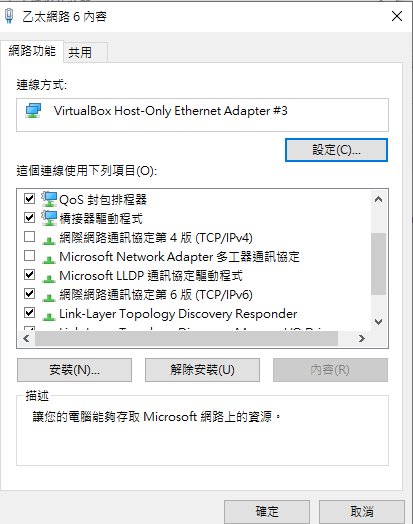
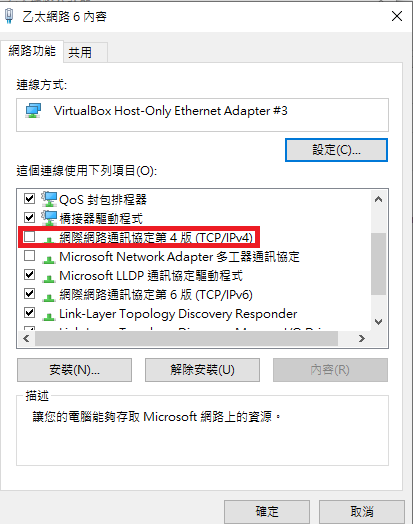
Internet

Changed region(s): [[0.0291, 0.4275, 0.6392, 0.4885]]

diff --git a/content/tipuesearch_content.js b/content/tipuesearch_content.js
@@ -1,1 +1,1 @@
-var tipuesearch = {"pages": [{'title': 'About', 'text': '本學期的電腦輔助設計實習, 要求每一位學員根據本 HW template 的格式建立個人的作業倉儲與網頁. \n \n 你的學號 \n 網站倉儲:  https://github.com/mdecourse/cad2021_hw \n 網站連結:  https://mde.tw/cad2021_hw \n 其他與作者或作業相關資料說明或介紹 \n', 'tags': '', 'url': 'About.html'}, {'title': '筆記', 'text': '', 'tags': '', 'url': '筆記.html'}, {'title': '9444', 'text': '先打指令\xa0 cd tmp \n 再打 \xa0 cd cad2021_hw \n 然後打 \xa0 cms \xa0 \n 就會得到網址  https://127.0.0.1:9444/ \xa0複製下來 \n \n 按\xa0 login\xa0 登入(密碼\xa0 admin \xa0) \n', 'tags': '', 'url': '9444.html'}, {'title': '網際網路', 'text': '學校網路使用ivp6，所以要把ivp4關掉 \n 設定網路伺服器網址 \n 2001:288:6004:17::42 \n', 'tags': '', 'url': '網際網路.html'}, {'title': 'HW1', 'text': 'HW1 佔學期成績 25% \n HW1 必須在 2021.11.10 22:00 之前完成. \n HW1 具體項目成果回報區 將於 2021.09.23 開啟, 於  2021.11.10 22:00 關閉. \n 作業一: meArm Robot 零件繪圖與機電運動模擬場景製作 \n Step1 : 下載  meARM.7z  這個包含尚未完成組立的 meArm Robot 場景與雷射切割零件組立手冊. \n meArm_75-0040_v1.pdf  則是另外一本組立參考手冊. \n Step2 : 從課程網頁中的  Compile CoppeliaSim 頁面 , 下載  coppeliaSim 4.1.0 官方版與 MSYS2 編譯版.7z  (檔案大小 412 MB, 解開壓縮後 1GB) 可攜套件. \n Step3 : 在 HW1 中, 要求每一位學員透過程式亂數分配 (兩班實際亂數分配結果以上課時點擊下列按鈕所得結果為準) 所使用的兩套參數式 CAD 套件, 從軟體發展緣起開始進行介紹,\xa0 經過教育版軟體套件檔案的取得, 下載安裝以及配置使用. 根據 Step1 中的零件尺寸, 逐一完成 meArm Robot 各零件繪製與組立. 並將零件 匯入  CoppeliaSim 進行組裝配置後, 以  UI 介面 中的 slider 控制 meArm Robot 各軸的旋轉作動. \n 2b CAD 套件分配結果:  https://mde.tw/cad2021/downloads/online/2b_hw1_cad.txt \n 附件: \n 1. CAD 套件分配表: \n sw: Solidworks, inv: Inventor, nx: NX12, ons: Onshape, slvs: Solvespace \n 2a 套件亂數分配結果 \n 2b 套件亂數分配結果 \n 2. 在兩套 CAD 完成零件繪圖並轉入 CoppeliaSim 後, 為了建立 Dynamic Model 必須利用  shape edit modes  轉為  clean model , 並與實際轉入的 STL 格式零件外形結合應用後建立模擬場景 (scenes). \n 3. meARM Robot  動態模擬場景 的建構, 可參考  0 ,  1 ,  2 ,  3 ,  4 ,  5 ,  6 ,  7 , 也可參考  Uarm Robot model  與相關 影片 . \n 4. CoppeliaSim design dynamic simulations  說明頁面 . \n 5.  網際 Lua  程式執行. \n 6.  meArm.slvs ,  meArm_in_solvespace.slvs \n 7. UI 介面程式參考: \n function closeEventHandler(h)\n    sim.addLog(sim.verbosity_scriptinfos,\'Window \'..h..\' is closing...\')\n    simUI.hide(h)\nend\n\nfunction joint1_rotate(ui,id,newVal)\n    simUI.setLabelText(ui,3000,\'theta1 set to \'..newVal)\n    sim.setJointTargetPosition(joint1, newVal*deg)\nend\n\nfunction joint2_rotate(ui,id,newVal)\n    simUI.setLabelText(ui,3000,\'theta2 set to \'..newVal)\n    sim.setJointTargetPosition(joint2, newVal*deg)\nend\n\nfunction joint3_rotate(ui,id,newVal)\n    simUI.setLabelText(ui,3000,\'theta3 set to \'..newVal)\n    sim.setJointTargetPosition(joint3, newVal*deg)\nend\n\nfunction joint16_rotate(ui,id,newVal)\n    simUI.setLabelText(ui,3000,\'theta16 set to \'..newVal)\n    sim.setJointTargetPosition(joint16, newVal*deg)\n    sim.setJointTargetPosition(joint20, -newVal*deg)\nend\n\nfunction sysCall_init()\n    -- do some initialization here\n    joint1 = sim.getObjectHandle(\'motor1\')\n    joint2 = sim.getObjectHandle(\'motor2\')\n    joint3 = sim.getObjectHandle(\'motor3\')\n    joint16 = sim.getObjectHandle(\'motor16\')\n    joint20 = sim.getObjectHandle(\'motor20\')\n    i = 0\n    deg = math.pi/180\n    print(i)\n    xml = [[\n<ui closeable="true" on-close="closeEventHandler" resizable="true">\n    <label text="This is a demo of the CustomUI plugin. Browse through the tabs below to explore all the widgets that can be created with the plugin." wordwrap="true" />\n    <tabs>\n        <tab title="Numeric">a\n            <label text="Sliders can be oriented horizontally or vertically, and have optional properties that can be set (in the XML) such as minimum and maximum value." wordwrap="true" />\n            <label text="" id="3000" wordwrap="true" />\n            <label text="theta1" /> <hslider tick-position="above" tick-interval="1" \n            minimum="0" maximum="360" on-change="joint1_rotate" />\n            <label text="theta2" /> <hslider tick-position="above" tick-interval="1" \n            minimum="-90" maximum="65" on-change="joint2_rotate" />\n            <label text="theta3" /> <hslider tick-position="above" tick-interval="1" \n            minimum="-90" maximum="185" on-change="joint3_rotate" />\n            <label text="theta16" /> <hslider tick-position="above" tick-interval="1" \n            minimum="0" maximum="15" on-change="joint16_rotate" />\n        </tab>\n    </tabs>\n</ui>\n]]\n    ui=simUI.create(xml)\n    \nend \n \n (From:  2016_ADDITIVE MANUFACTURING PROCESSES FOR FABRICATING A MINI ROBOT - COMPUTATIONAL MODELS AND EXPERIMENTAL RESULTS.pdf ) \n \n', 'tags': '', 'url': 'HW1.html'}, {'title': 'CAD1 繪圖', 'text': 'CAD1 指各學員所分配到的第一套參數式 CAD 套件, 其中包括 Solidworks, Inventor, NX, Onshape 與 Solvespace. \n CAD1 緣起說明與介紹 \n 請不要直接從找到的 CAD1 套件說明複製貼上, 而是應該要看完各種參考資料後, 重新打字彙整. \n', 'tags': '', 'url': 'CAD1 繪圖.html'}, {'title': 'CAD1 安裝配置', 'text': 'CAD1 指各學員所分配到的第一套參數式 CAD 套件, 其中包括 Solidworks, Inventor, NX, Onshape 與 Solvespace. \n CAD1 套件下載安裝與配置 \n CAD1 下載安裝與配置流程 embedded 影片: 標題必須為「 NFU - MDE - cad2021 - 學號 - SW2020 下載安裝與配置 」且加上 語音說明 與 字幕. \n 若使用 Solidworks 2017 版, 則將 SW2020 換為 SW2017, 其他套件 INV2020 代表 AutoDesk Inventor 2020 版, 還有 Onshape 與 Solvespace 等套件名稱. \n 由於安裝配置 Solidworks 時必須使用 nfu 的 vpn, 因此各學員必須按照 說明 , 完成本學期的 vpn 使用申請. \n Solidworks 分別提供 2017 與 2020 版本: \n SW2017 Professional 安裝光碟下載  (必須先登入 @gm 帳號後才能下載) \n SW2020 Professional 安裝光碟下載  (必須先登入 @gm 帳號後才能下載) \n NX12 版本: \n NX12 安裝光碟下載  (必須先登入 @gm 帳號後才能下載) \n NX12 可攜版本下載 \xa0(必須先登入 @gm 帳號後才能下載) \n Inventor: \n 請在校園網路, 使用 nfu vpn 或設定系上代理主機, 就可以從  https://2019wcm.blogspot.com/2019/07/autodesk-inventor-professional.html  嘗試下載 autodesk.iso 後安裝 Inventor Professional 版本. \n Onshape: \n 至  https://www.onshape.com/en/  申請帳號後使用. \n Solvespace: \n 至  https://solvespace.com  下載或從  https://github.com/solvespace/solvespace  下載原始碼, 以可攜程式系統自行編譯後使用. \n', 'tags': '', 'url': 'CAD1 安裝配置.html'}, {'title': 'CAD1 操作流程', 'text': 'CAD1 指各學員所分配到的第一套參數式 CAD 套件, 其中包括 Solidworks, Inventor, NX, Onshape 與 Solvespace. \n CAD1 零組件繪圖操作流程影片 (Youtube) \n CAD1 零組件繪圖教學影片 (Wink) \n CAD1 零組件繪圖教學影片 embedded 影片: 標題必須為「 NFU - MDE - cad2021 - 學號 - SW2020  零組件繪圖教學影片」且加上 語音說明 與 字幕. \n 若使用 Solidworks 2017 版, 則將 SW2020 換為 SW2017, 其他套件 INV2020 代表 AutoDesk Inventor 2020 版, 還有 Onshape 與 Solvespace 等套件名稱. \n', 'tags': '', 'url': 'CAD1 操作流程.html'}, {'title': 'CAD2 繪圖', 'text': 'CAD2 指各學員所分配到的第二套參數式 CAD 套件, 其中包括 Solidworks, Inventor, NX, Onshape 與 Solvespace. \n CAD2 緣起說明與介紹 \n 請不要直接從找到的 CAD2 套件說明複製貼上, 而是應該要看完各種參考資料後, 重新打字彙整. \n', 'tags': '', 'url': 'CAD2 繪圖.html'}, {'title': 'CAD2 安裝配置', 'text': 'CAD2 指各學員所分配到的第二套參數式 CAD 套件, 其中包括 Solidworks, Inventor, NX, Onshape 與 Solvespace. \n CAD2 套件下載安裝與配置 \n CAD2 套件下載安裝與配置影片 embedded 影片: 標題必須為「 NFU - MDE - cad2021 - 學號 - SW2020  套件下載安裝與配置影片」且加上 語音說明 與 字幕. \n 若使用 Solidworks 2017 版, 則將 SW2020 換為 SW2017, 其他套件 INV2020 代表 AutoDesk Inventor 2020 版, 還有 Onshape 與 Solvespace 等套件名稱. \n', 'tags': '', 'url': 'CAD2 安裝配置.html'}, {'title': 'CAD2 操作流程', 'text': 'CAD2 指各學員所分配到的第二套參數式 CAD 套件, 其中包括 Solidworks, Inventor, NX, Onshape 與 Solvespace. \n CAD2 零組件繪圖操作流程影片 (Youtube) \n CAD2 零組件繪圖教學影片 (Wink) \n CAD2 零組件繪圖教學影片 embedded 影片: 標題必須為「 NFU - MDE - cad2021 - 學號 - SW2020  零組件繪圖教學影片」且加上 語音說明 與 字幕. \n 若使用 Solidworks 2017 版, 則將 SW2020 換為 SW2017, 其他套件 INV2020 代表 AutoDesk Inventor 2020 版, 還有 Onshape 與 Solvespace 等套件名稱. \n', 'tags': '', 'url': 'CAD2 操作流程.html'}, {'title': '運動場景', 'text': 'CAD1: \n CAD1 零件轉出後轉入 CoppeliaSim 操作影片 (Youtube) \n CAD1 零件轉入 CoppeliaSim 教學影片 (Wink) \n CAD1 轉入 Coppeliasim 教學影片 embedded 影片: 標題必須為「 NFU - MDE - cad2021 - 學號 - SW2020  零件轉入 CoppeliaSim 教學影片」且加上 語音說明 與 字幕. \n CAD2: \n CAD2 零件轉出後轉入 CoppeliaSim 操作影片 (Youtube) \n CAD2 零件轉入 CoppeliaSim 教學影片 (Wink) \n CAD2 轉入 Coppeliasim 教學影片 embedded 影片: 標題必須為「 NFU - MDE - cad2021 - 學號 - SW2020  零件轉入 CoppeliaSim 教學影片」且加上 語音說明 與 字幕. \n 若使用 Solidworks 2017 版, 則將 SW2020 換為 SW2017, 其他套件 INV2020 代表 AutoDesk Inventor 2020 版, 還有 Onshape 與 Solvespace 等套件名稱. \n', 'tags': '', 'url': '運動場景.html'}, {'title': 'HW1-1', 'text': 'HW1-1 佔學期成績 15% \n HW1-1 必須在 2021.12.01 22:00 之前完成. \n HW1-1 具體項目成果回報區 將於 2021.11.18 開啟, 於  2021.12.01 22:00 關閉. \n 作業 1-1: Mirobot 機械手臂場景組合 \n 說明: meArm Robot 有四個自由度, 請根據 HW1 的零組件繪製組立與 CoppeliaSim 運動場景模擬, 延伸至  Task1-1  中六個自由度的 Mirobot 機械手臂. \n mirobot_part1_to_part5.7z  為取自 \xa0 https://github.com/wlkata/Mirobot-STL  的參考零件. 請利用場景中 Mirobot STL 零件, 組合為可以透過  UI 介面 中的 slider 控制各軸作動旋轉的運動模型. \n 請根據  Task1-1  中的說明, 完成各項指定任務. \n', 'tags': '', 'url': 'HW1-1.html'}, {'title': 'HW2', 'text': 'HW2 佔學期成績 20% \n HW2 必須在 2021.12.22 22:00 之前完成. \n HW2 具體項目成果回報區 將於 2021.12.09 開啟, 於  2021.12.22 22:00 關閉. \n meArm 逆向運動學與網際參數式 CAD API 結合應用. \n 請將  https://github.com/mdecourse/meArm  中的 meArm Robot 逆向運動學程式, 改為 Lua 與 Python 程式, 使能套用至 HW1 所完成的 CoppeliaSim meArm 運動模擬場景. 並分別採 Lua, Legacy remote API 及 Bluezero remote API 逆向運動的方式進行控制. \n 請利用  Task2  中的 Solidworks, Inventor 與 NX API 程式控制 meArm Robot 零組件尺寸, 說明並討論如何透過網際程式控制 meArm Robot 的零件尺寸, 並結合上述逆向運動學程式庫, 使得自動化機電產品開發流程更容易滿足客製化需求. \n 參考: \n 2016_ADDITIVE MANUFACTURING PROCESSES FOR FABRICATING A MINI ROBOT - COMPUTATIONAL MODELS AND EXPERIMENTAL RESULTS.pdf \n Robot Manipulator Control with Inverse Kinematics PD-Pseudoinverse Jacobian and Forward Kinematics Denavit Hartenber.pdf \n KINEMATIC ANALYSIS FOR ROBOT ARM.pdf \n https://codebender.cc/user/MeArm \n https://github.com/mdecourse/meArmPi \n /downloads/MeArmPiTechnicalOverviewV0-3DRAFT.pdf \n https://github.com/mdecourse/me-arm-ik \n https://github.com/mdecourse/mearm_model \n https://courses.ece.cornell.edu/ece5990/ECE5725_Fall2016_Projects/pas324_ml634/index.html \n https://github.com/mdecourse/InefficientSkittleSorter \n https://mearm.com \n', 'tags': '', 'url': 'HW2.html'}, {'title': 'HW3', 'text': 'HW3 為選項作業. \n HW3 具體項目成果回報區 將於 2021.12.09 開啟, 於  2022.01.05 22:00 關閉 \n https://mde.tw/cad2021/content/Task3.html \xa0 \n https://mde.tw/cad2021/content/Task4.html \n https://mde.tw/cad2021/content/Task5.html \n https://mde.tw/cad2021/content/Task6.html \n https://mde.tw/cad2021/content/Task7.html \n 請從上列 Tasks 中自行選擇項目內容完成 HW3. \n', 'tags': '', 'url': 'HW3.html'}, {'title': 'Final Project', 'text': 'Final Project 佔學期成績 40% \n 2a 與 2b 必須在 2022.01.06 上課之前完成 Final Project \n Final Project 具體項目成果回報區 將於 2021.12.09 開啟, 於  2022.01.05 22:00 關閉 \n 彈性製造系統場景設計與製作 \n 請從  https://github.com/mdecourse/scenes  與  https://github.com/mdecourse/models  中選擇場景或模型, 配合  cad2021_textbook.pdf  (登入 @gm 帳號後下載) 教材中的內容, 自選製作與組立產品, 組合成一個 Flexible Manufacturing System 系統場景. \n 彈性製造系統內容說明 \n 範例: \n \n', 'tags': '', 'url': 'Final Project.html'}]};
+var tipuesearch = {"pages": [{'title': 'About', 'text': '本學期的電腦輔助設計實習, 要求每一位學員根據本 HW template 的格式建立個人的作業倉儲與網頁. \n \n 你的學號 \n 網站倉儲:  https://github.com/mdecourse/cad2021_hw \n 網站連結:  https://mde.tw/cad2021_hw \n 其他與作者或作業相關資料說明或介紹 \n', 'tags': '', 'url': 'About.html'}, {'title': '筆記', 'text': '', 'tags': '', 'url': '筆記.html'}, {'title': '9444', 'text': '先打指令\xa0 cd tmp \n 再打 \xa0 cd cad2021_hw \n 然後打 \xa0 cms \xa0 \n 就會得到網址  https://127.0.0.1:9444/ \xa0複製下來 \n \n 按\xa0 login\xa0 登入(密碼\xa0 admin \xa0) \n', 'tags': '', 'url': '9444.html'}, {'title': '網際網路', 'text': '學校網路使用 ivp6 ，所以要把 ivp4 關掉 \n \n 設定DNS伺服器位址\xa0 2001:b000:168::1 \n \n 在小黑窗打上  ipconfig /all ，確認網路位址 \n \n \n 設定 HTTY Proxy \xa0 2001:288:6004:17::42 \n \n 設定完成後，就可以上網了123 \n \n', 'tags': '', 'url': '網際網路.html'}, {'title': 'HW1', 'text': 'HW1 佔學期成績 25% \n HW1 必須在 2021.11.10 22:00 之前完成. \n HW1 具體項目成果回報區 將於 2021.09.23 開啟, 於  2021.11.10 22:00 關閉. \n 作業一: meArm Robot 零件繪圖與機電運動模擬場景製作 \n Step1 : 下載  meARM.7z  這個包含尚未完成組立的 meArm Robot 場景與雷射切割零件組立手冊. \n meArm_75-0040_v1.pdf  則是另外一本組立參考手冊. \n Step2 : 從課程網頁中的  Compile CoppeliaSim 頁面 , 下載  coppeliaSim 4.1.0 官方版與 MSYS2 編譯版.7z  (檔案大小 412 MB, 解開壓縮後 1GB) 可攜套件. \n Step3 : 在 HW1 中, 要求每一位學員透過程式亂數分配 (兩班實際亂數分配結果以上課時點擊下列按鈕所得結果為準) 所使用的兩套參數式 CAD 套件, 從軟體發展緣起開始進行介紹,\xa0 經過教育版軟體套件檔案的取得, 下載安裝以及配置使用. 根據 Step1 中的零件尺寸, 逐一完成 meArm Robot 各零件繪製與組立. 並將零件 匯入  CoppeliaSim 進行組裝配置後, 以  UI 介面 中的 slider 控制 meArm Robot 各軸的旋轉作動. \n 2b CAD 套件分配結果:  https://mde.tw/cad2021/downloads/online/2b_hw1_cad.txt \n 附件: \n 1. CAD 套件分配表: \n sw: Solidworks, inv: Inventor, nx: NX12, ons: Onshape, slvs: Solvespace \n 2a 套件亂數分配結果 \n 2b 套件亂數分配結果 \n 2. 在兩套 CAD 完成零件繪圖並轉入 CoppeliaSim 後, 為了建立 Dynamic Model 必須利用  shape edit modes  轉為  clean model , 並與實際轉入的 STL 格式零件外形結合應用後建立模擬場景 (scenes). \n 3. meARM Robot  動態模擬場景 的建構, 可參考  0 ,  1 ,  2 ,  3 ,  4 ,  5 ,  6 ,  7 , 也可參考  Uarm Robot model  與相關 影片 . \n 4. CoppeliaSim design dynamic simulations  說明頁面 . \n 5.  網際 Lua  程式執行. \n 6.  meArm.slvs ,  meArm_in_solvespace.slvs \n 7. UI 介面程式參考: \n function closeEventHandler(h)\n    sim.addLog(sim.verbosity_scriptinfos,\'Window \'..h..\' is closing...\')\n    simUI.hide(h)\nend\n\nfunction joint1_rotate(ui,id,newVal)\n    simUI.setLabelText(ui,3000,\'theta1 set to \'..newVal)\n    sim.setJointTargetPosition(joint1, newVal*deg)\nend\n\nfunction joint2_rotate(ui,id,newVal)\n    simUI.setLabelText(ui,3000,\'theta2 set to \'..newVal)\n    sim.setJointTargetPosition(joint2, newVal*deg)\nend\n\nfunction joint3_rotate(ui,id,newVal)\n    simUI.setLabelText(ui,3000,\'theta3 set to \'..newVal)\n    sim.setJointTargetPosition(joint3, newVal*deg)\nend\n\nfunction joint16_rotate(ui,id,newVal)\n    simUI.setLabelText(ui,3000,\'theta16 set to \'..newVal)\n    sim.setJointTargetPosition(joint16, newVal*deg)\n    sim.setJointTargetPosition(joint20, -newVal*deg)\nend\n\nfunction sysCall_init()\n    -- do some initialization here\n    joint1 = sim.getObjectHandle(\'motor1\')\n    joint2 = sim.getObjectHandle(\'motor2\')\n    joint3 = sim.getObjectHandle(\'motor3\')\n    joint16 = sim.getObjectHandle(\'motor16\')\n    joint20 = sim.getObjectHandle(\'motor20\')\n    i = 0\n    deg = math.pi/180\n    print(i)\n    xml = [[\n<ui closeable="true" on-close="closeEventHandler" resizable="true">\n    <label text="This is a demo of the CustomUI plugin. Browse through the tabs below to explore all the widgets that can be created with the plugin." wordwrap="true" />\n    <tabs>\n        <tab title="Numeric">a\n            <label text="Sliders can be oriented horizontally or vertically, and have optional properties that can be set (in the XML) such as minimum and maximum value." wordwrap="true" />\n            <label text="" id="3000" wordwrap="true" />\n            <label text="theta1" /> <hslider tick-position="above" tick-interval="1" \n            minimum="0" maximum="360" on-change="joint1_rotate" />\n            <label text="theta2" /> <hslider tick-position="above" tick-interval="1" \n            minimum="-90" maximum="65" on-change="joint2_rotate" />\n            <label text="theta3" /> <hslider tick-position="above" tick-interval="1" \n            minimum="-90" maximum="185" on-change="joint3_rotate" />\n            <label text="theta16" /> <hslider tick-position="above" tick-interval="1" \n            minimum="0" maximum="15" on-change="joint16_rotate" />\n        </tab>\n    </tabs>\n</ui>\n]]\n    ui=simUI.create(xml)\n    \nend \n \n (From:  2016_ADDITIVE MANUFACTURING PROCESSES FOR FABRICATING A MINI ROBOT - COMPUTATIONAL MODELS AND EXPERIMENTAL RESULTS.pdf ) \n \n', 'tags': '', 'url': 'HW1.html'}, {'title': 'CAD1 繪圖', 'text': 'CAD1 指各學員所分配到的第一套參數式 CAD 套件, 其中包括 Solidworks, Inventor, NX, Onshape 與 Solvespace. \n CAD1 緣起說明與介紹 \n 請不要直接從找到的 CAD1 套件說明複製貼上, 而是應該要看完各種參考資料後, 重新打字彙整. \n', 'tags': '', 'url': 'CAD1 繪圖.html'}, {'title': 'CAD1 安裝配置', 'text': 'CAD1 指各學員所分配到的第一套參數式 CAD 套件, 其中包括 Solidworks, Inventor, NX, Onshape 與 Solvespace. \n CAD1 套件下載安裝與配置 \n CAD1 下載安裝與配置流程 embedded 影片: 標題必須為「 NFU - MDE - cad2021 - 學號 - SW2020 下載安裝與配置 」且加上 語音說明 與 字幕. \n 若使用 Solidworks 2017 版, 則將 SW2020 換為 SW2017, 其他套件 INV2020 代表 AutoDesk Inventor 2020 版, 還有 Onshape 與 Solvespace 等套件名稱. \n 由於安裝配置 Solidworks 時必須使用 nfu 的 vpn, 因此各學員必須按照 說明 , 完成本學期的 vpn 使用申請. \n Solidworks 分別提供 2017 與 2020 版本: \n SW2017 Professional 安裝光碟下載  (必須先登入 @gm 帳號後才能下載) \n SW2020 Professional 安裝光碟下載  (必須先登入 @gm 帳號後才能下載) \n NX12 版本: \n NX12 安裝光碟下載  (必須先登入 @gm 帳號後才能下載) \n NX12 可攜版本下載 \xa0(必須先登入 @gm 帳號後才能下載) \n Inventor: \n 請在校園網路, 使用 nfu vpn 或設定系上代理主機, 就可以從  https://2019wcm.blogspot.com/2019/07/autodesk-inventor-professional.html  嘗試下載 autodesk.iso 後安裝 Inventor Professional 版本. \n Onshape: \n 至  https://www.onshape.com/en/  申請帳號後使用. \n Solvespace: \n 至  https://solvespace.com  下載或從  https://github.com/solvespace/solvespace  下載原始碼, 以可攜程式系統自行編譯後使用. \n', 'tags': '', 'url': 'CAD1 安裝配置.html'}, {'title': 'CAD1 操作流程', 'text': 'CAD1 指各學員所分配到的第一套參數式 CAD 套件, 其中包括 Solidworks, Inventor, NX, Onshape 與 Solvespace. \n CAD1 零組件繪圖操作流程影片 (Youtube) \n CAD1 零組件繪圖教學影片 (Wink) \n CAD1 零組件繪圖教學影片 embedded 影片: 標題必須為「 NFU - MDE - cad2021 - 學號 - SW2020  零組件繪圖教學影片」且加上 語音說明 與 字幕. \n 若使用 Solidworks 2017 版, 則將 SW2020 換為 SW2017, 其他套件 INV2020 代表 AutoDesk Inventor 2020 版, 還有 Onshape 與 Solvespace 等套件名稱. \n', 'tags': '', 'url': 'CAD1 操作流程.html'}, {'title': 'CAD2 繪圖', 'text': 'CAD2 指各學員所分配到的第二套參數式 CAD 套件, 其中包括 Solidworks, Inventor, NX, Onshape 與 Solvespace. \n CAD2 緣起說明與介紹 \n 請不要直接從找到的 CAD2 套件說明複製貼上, 而是應該要看完各種參考資料後, 重新打字彙整. \n', 'tags': '', 'url': 'CAD2 繪圖.html'}, {'title': 'CAD2 安裝配置', 'text': 'CAD2 指各學員所分配到的第二套參數式 CAD 套件, 其中包括 Solidworks, Inventor, NX, Onshape 與 Solvespace. \n CAD2 套件下載安裝與配置 \n CAD2 套件下載安裝與配置影片 embedded 影片: 標題必須為「 NFU - MDE - cad2021 - 學號 - SW2020  套件下載安裝與配置影片」且加上 語音說明 與 字幕. \n 若使用 Solidworks 2017 版, 則將 SW2020 換為 SW2017, 其他套件 INV2020 代表 AutoDesk Inventor 2020 版, 還有 Onshape 與 Solvespace 等套件名稱. \n', 'tags': '', 'url': 'CAD2 安裝配置.html'}, {'title': 'CAD2 操作流程', 'text': 'CAD2 指各學員所分配到的第二套參數式 CAD 套件, 其中包括 Solidworks, Inventor, NX, Onshape 與 Solvespace. \n CAD2 零組件繪圖操作流程影片 (Youtube) \n CAD2 零組件繪圖教學影片 (Wink) \n CAD2 零組件繪圖教學影片 embedded 影片: 標題必須為「 NFU - MDE - cad2021 - 學號 - SW2020  零組件繪圖教學影片」且加上 語音說明 與 字幕. \n 若使用 Solidworks 2017 版, 則將 SW2020 換為 SW2017, 其他套件 INV2020 代表 AutoDesk Inventor 2020 版, 還有 Onshape 與 Solvespace 等套件名稱. \n', 'tags': '', 'url': 'CAD2 操作流程.html'}, {'title': '運動場景', 'text': 'CAD1: \n CAD1 零件轉出後轉入 CoppeliaSim 操作影片 (Youtube) \n CAD1 零件轉入 CoppeliaSim 教學影片 (Wink) \n CAD1 轉入 Coppeliasim 教學影片 embedded 影片: 標題必須為「 NFU - MDE - cad2021 - 學號 - SW2020  零件轉入 CoppeliaSim 教學影片」且加上 語音說明 與 字幕. \n CAD2: \n CAD2 零件轉出後轉入 CoppeliaSim 操作影片 (Youtube) \n CAD2 零件轉入 CoppeliaSim 教學影片 (Wink) \n CAD2 轉入 Coppeliasim 教學影片 embedded 影片: 標題必須為「 NFU - MDE - cad2021 - 學號 - SW2020  零件轉入 CoppeliaSim 教學影片」且加上 語音說明 與 字幕. \n 若使用 Solidworks 2017 版, 則將 SW2020 換為 SW2017, 其他套件 INV2020 代表 AutoDesk Inventor 2020 版, 還有 Onshape 與 Solvespace 等套件名稱. \n', 'tags': '', 'url': '運動場景.html'}, {'title': 'HW1-1', 'text': 'HW1-1 佔學期成績 15% \n HW1-1 必須在 2021.12.01 22:00 之前完成. \n HW1-1 具體項目成果回報區 將於 2021.11.18 開啟, 於  2021.12.01 22:00 關閉. \n 作業 1-1: Mirobot 機械手臂場景組合 \n 說明: meArm Robot 有四個自由度, 請根據 HW1 的零組件繪製組立與 CoppeliaSim 運動場景模擬, 延伸至  Task1-1  中六個自由度的 Mirobot 機械手臂. \n mirobot_part1_to_part5.7z  為取自 \xa0 https://github.com/wlkata/Mirobot-STL  的參考零件. 請利用場景中 Mirobot STL 零件, 組合為可以透過  UI 介面 中的 slider 控制各軸作動旋轉的運動模型. \n 請根據  Task1-1  中的說明, 完成各項指定任務. \n', 'tags': '', 'url': 'HW1-1.html'}, {'title': 'HW2', 'text': 'HW2 佔學期成績 20% \n HW2 必須在 2021.12.22 22:00 之前完成. \n HW2 具體項目成果回報區 將於 2021.12.09 開啟, 於  2021.12.22 22:00 關閉. \n meArm 逆向運動學與網際參數式 CAD API 結合應用. \n 請將  https://github.com/mdecourse/meArm  中的 meArm Robot 逆向運動學程式, 改為 Lua 與 Python 程式, 使能套用至 HW1 所完成的 CoppeliaSim meArm 運動模擬場景. 並分別採 Lua, Legacy remote API 及 Bluezero remote API 逆向運動的方式進行控制. \n 請利用  Task2  中的 Solidworks, Inventor 與 NX API 程式控制 meArm Robot 零組件尺寸, 說明並討論如何透過網際程式控制 meArm Robot 的零件尺寸, 並結合上述逆向運動學程式庫, 使得自動化機電產品開發流程更容易滿足客製化需求. \n 參考: \n 2016_ADDITIVE MANUFACTURING PROCESSES FOR FABRICATING A MINI ROBOT - COMPUTATIONAL MODELS AND EXPERIMENTAL RESULTS.pdf \n Robot Manipulator Control with Inverse Kinematics PD-Pseudoinverse Jacobian and Forward Kinematics Denavit Hartenber.pdf \n KINEMATIC ANALYSIS FOR ROBOT ARM.pdf \n https://codebender.cc/user/MeArm \n https://github.com/mdecourse/meArmPi \n /downloads/MeArmPiTechnicalOverviewV0-3DRAFT.pdf \n https://github.com/mdecourse/me-arm-ik \n https://github.com/mdecourse/mearm_model \n https://courses.ece.cornell.edu/ece5990/ECE5725_Fall2016_Projects/pas324_ml634/index.html \n https://github.com/mdecourse/InefficientSkittleSorter \n https://mearm.com \n', 'tags': '', 'url': 'HW2.html'}, {'title': 'HW3', 'text': 'HW3 為選項作業. \n HW3 具體項目成果回報區 將於 2021.12.09 開啟, 於  2022.01.05 22:00 關閉 \n https://mde.tw/cad2021/content/Task3.html \xa0 \n https://mde.tw/cad2021/content/Task4.html \n https://mde.tw/cad2021/content/Task5.html \n https://mde.tw/cad2021/content/Task6.html \n https://mde.tw/cad2021/content/Task7.html \n 請從上列 Tasks 中自行選擇項目內容完成 HW3. \n', 'tags': '', 'url': 'HW3.html'}, {'title': 'Final Project', 'text': 'Final Project 佔學期成績 40% \n 2a 與 2b 必須在 2022.01.06 上課之前完成 Final Project \n Final Project 具體項目成果回報區 將於 2021.12.09 開啟, 於  2022.01.05 22:00 關閉 \n 彈性製造系統場景設計與製作 \n 請從  https://github.com/mdecourse/scenes  與  https://github.com/mdecourse/models  中選擇場景或模型, 配合  cad2021_textbook.pdf  (登入 @gm 帳號後下載) 教材中的內容, 自選製作與組立產品, 組合成一個 Flexible Manufacturing System 系統場景. \n 彈性製造系統內容說明 \n 範例: \n \n', 'tags': '', 'url': 'Final Project.html'}]};

diff --git a/config/content_backup.htm b/config/content_backup.htm
@@ -8,15 +8,23 @@
 <h1>筆記</h1>
 <h2><span>9444</span></h2>
 <p><span>先打指令 </span><span style="background-color: #ffff99;"><strong>cd tmp</strong></span></p>
-<p>再打<span> </span><span style="background-color: #ffff99;"><strong>cd cad2021_hw</strong><strong><em> </em></strong></span>(自己的名稱)</p>
+<p>再打<span> </span><span style="background-color: #ffff99;"><strong>cd cad2021_hw</strong></span></p>
 <p>然後打<span> </span><span style="background-color: #ffff99;"><strong>cms</strong></span><em><strong> </strong></em></p>
 <p>就會得到網址 <span style="background-color: #ccffcc;">https://127.0.0.1:9444/</span> 複製下來</p>
-<p><img alt="" height="261" src="https://a40923101.herokuapp.com/images/01.png" width="500"/></p>
+<p><img alt="" height="262" src="/images/11.png" width="500"/></p>
 <p>按 <strong>login </strong>登入(密碼 <span style="background-color: #cc99ff;">admin</span> )</p>
 <h2>網際網路</h2>
-<p>學校網路使用ivp6，所以要把ivp4關掉</p>
-<p>設定網路伺服器網址</p>
-<p>2001:288:6004:17::42</p>
+<p>學校網路使用<strong>ivp6</strong>，所以要把<strong>ivp4</strong>關掉</p>
+<p><img alt="" height="634" src="/images/1.png" width="500"/></p>
+<p>設定DNS伺服器位址 <strong><span style="background-color: #ccffcc;">2001:b000:168::1</span></strong></p>
+<p><img alt="" height="260" src="/images/2.png" width="500"/></p>
+<p>在小黑窗打上 <strong><span style="background-color: #ffff99;">ipconfig /all</span></strong>，確認網路位址</p>
+<p><img alt="" height="260" src="/images/9.png" width="500"/></p>
+<p><img alt="" height="420" src="/images/10.png" width="500"/></p>
+<p>設定<strong>HTTY Proxy</strong> <strong><span style="background-color: #ccffcc;">2001:288:6004:17::42</span></strong></p>
+<p><img alt="" height="563" src="/images/8.png" width="500"/></p>
+<p>設定完成後，就可以上網了</p>
+<p></p>
 <h1>HW1</h1>
 <p>HW1 佔學期成績 25%</p>
 <p><span style="background-color: #ffff99;">HW1 必須在 2021.11.10 22:00 之前完成.<br/></span></p>

diff --git a/config/content.htm b/config/content.htm
@@ -14,9 +14,17 @@
 <p><img alt="" height="262" src="/images/11.png" width="500"/></p>
 <p>按 <strong>login </strong>登入(密碼 <span style="background-color: #cc99ff;">admin</span> )</p>
 <h2>網際網路</h2>
-<p>學校網路使用ivp6，所以要把ivp4關掉</p>
-<p>設定網路伺服器網址</p>
-<p>2001:288:6004:17::42</p>
+<p>學校網路使用<strong>ivp6</strong>，所以要把<strong>ivp4</strong>關掉</p>
+<p><img alt="" height="634" src="/images/1.png" width="500"/></p>
+<p>設定DNS伺服器位址 <strong><span style="background-color: #ccffcc;">2001:b000:168::1</span></strong></p>
+<p><img alt="" height="260" src="/images/2.png" width="500"/></p>
+<p>在小黑窗打上 <strong><span style="background-color: #ffff99;">ipconfig /all</span></strong>，確認網路位址</p>
+<p><img alt="" height="260" src="/images/9.png" width="500"/></p>
+<p><img alt="" height="420" src="/images/10.png" width="500"/></p>
+<p>設定<strong>HTTY Proxy</strong> <strong><span style="background-color: #ccffcc;">2001:288:6004:17::42</span></strong></p>
+<p><img alt="" height="563" src="/images/8.png" width="500"/></p>
+<p>設定完成後，就可以上網了123</p>
+<p></p>
 <h1>HW1</h1>
 <p>HW1 佔學期成績 25%</p>
 <p><span style="background-color: #ffff99;">HW1 必須在 2021.11.10 22:00 之前完成.<br/></span></p>

diff --git a/content/網際網路.html b/content/網際網路.html
@@ -140,9 +140,17 @@ img.add_border {
           
         </header>
     <div id="tipue_search_content">9444 << <a href='9444.html'>Previous</a> <a href='HW1.html'>Next</a> >> HW1<br /><h1>網際網路</h1>
-<p>學校網路使用ivp6，所以要把ivp4關掉</p>
-<p>設定網路伺服器網址</p>
-<p>2001:288:6004:17::42</p>
+<p>學校網路使用<strong>ivp6</strong>，所以要把<strong>ivp4</strong>關掉</p>
+<p><img alt="" height="634" src="./../images/1.png" width="500"/></p>
+<p>設定DNS伺服器位址 <strong><span style="background-color: #ccffcc;">2001:b000:168::1</span></strong></p>
+<p><img alt="" height="260" src="./../images/2.png" width="500"/></p>
+<p>在小黑窗打上 <strong><span style="background-color: #ffff99;">ipconfig /all</span></strong>，確認網路位址</p>
+<p><img alt="" height="260" src="./../images/9.png" width="500"/></p>
+<p><img alt="" height="420" src="./../images/10.png" width="500"/></p>
+<p>設定<strong>HTTY Proxy</strong> <strong><span style="background-color: #ccffcc;">2001:288:6004:17::42</span></strong></p>
+<p><img alt="" height="563" src="./../images/8.png" width="500"/></p>
+<p>設定完成後，就可以上網了123</p>
+<p></p>
 <br />9444 << <a href='9444.html'>Previous</a> <a href='HW1.html'>Next</a> >> HW1</div>
         
     <!-- footer -->
